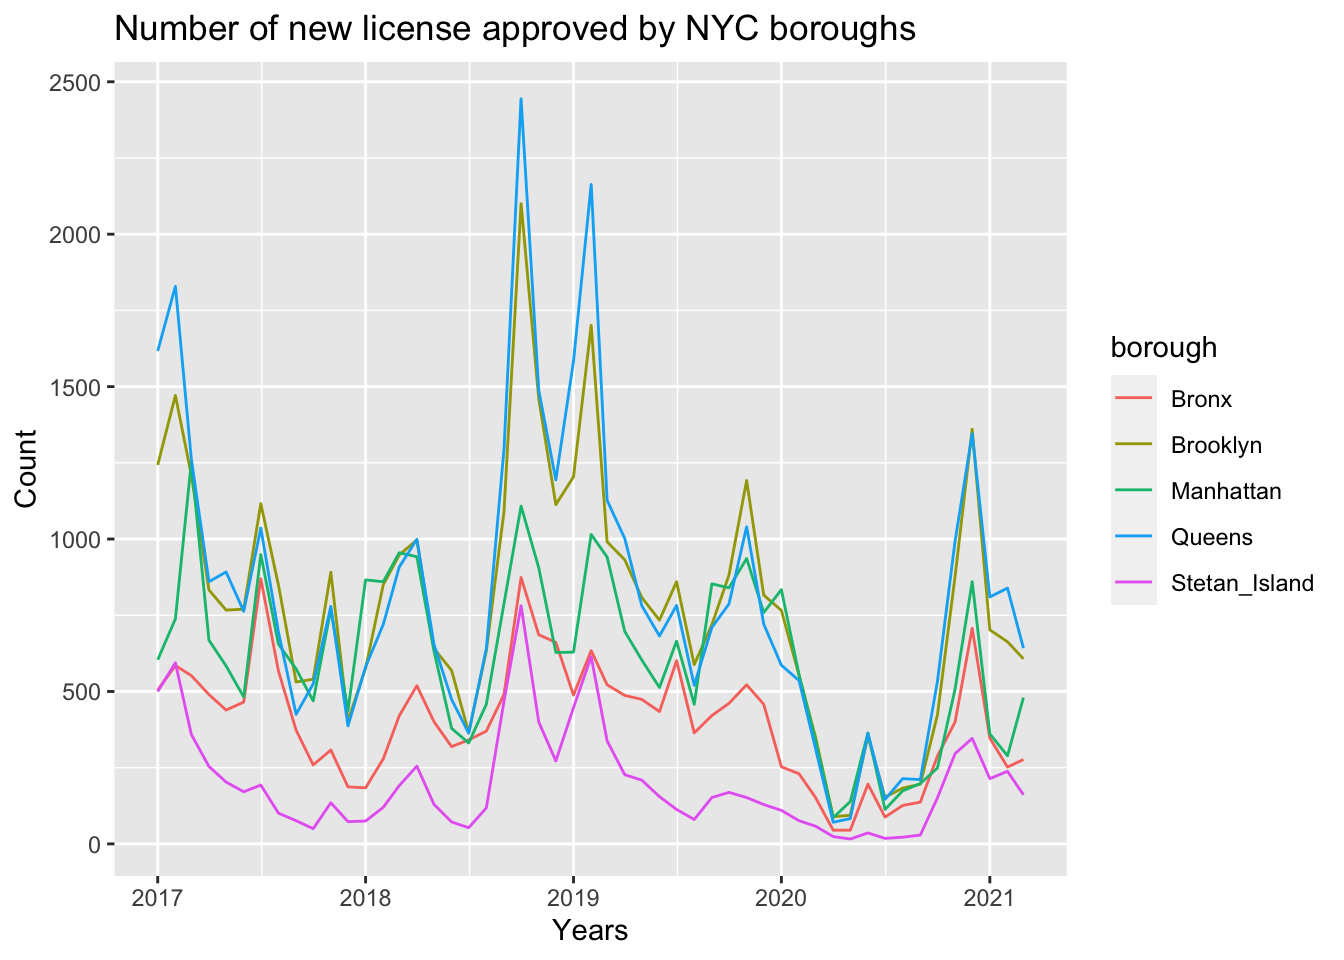
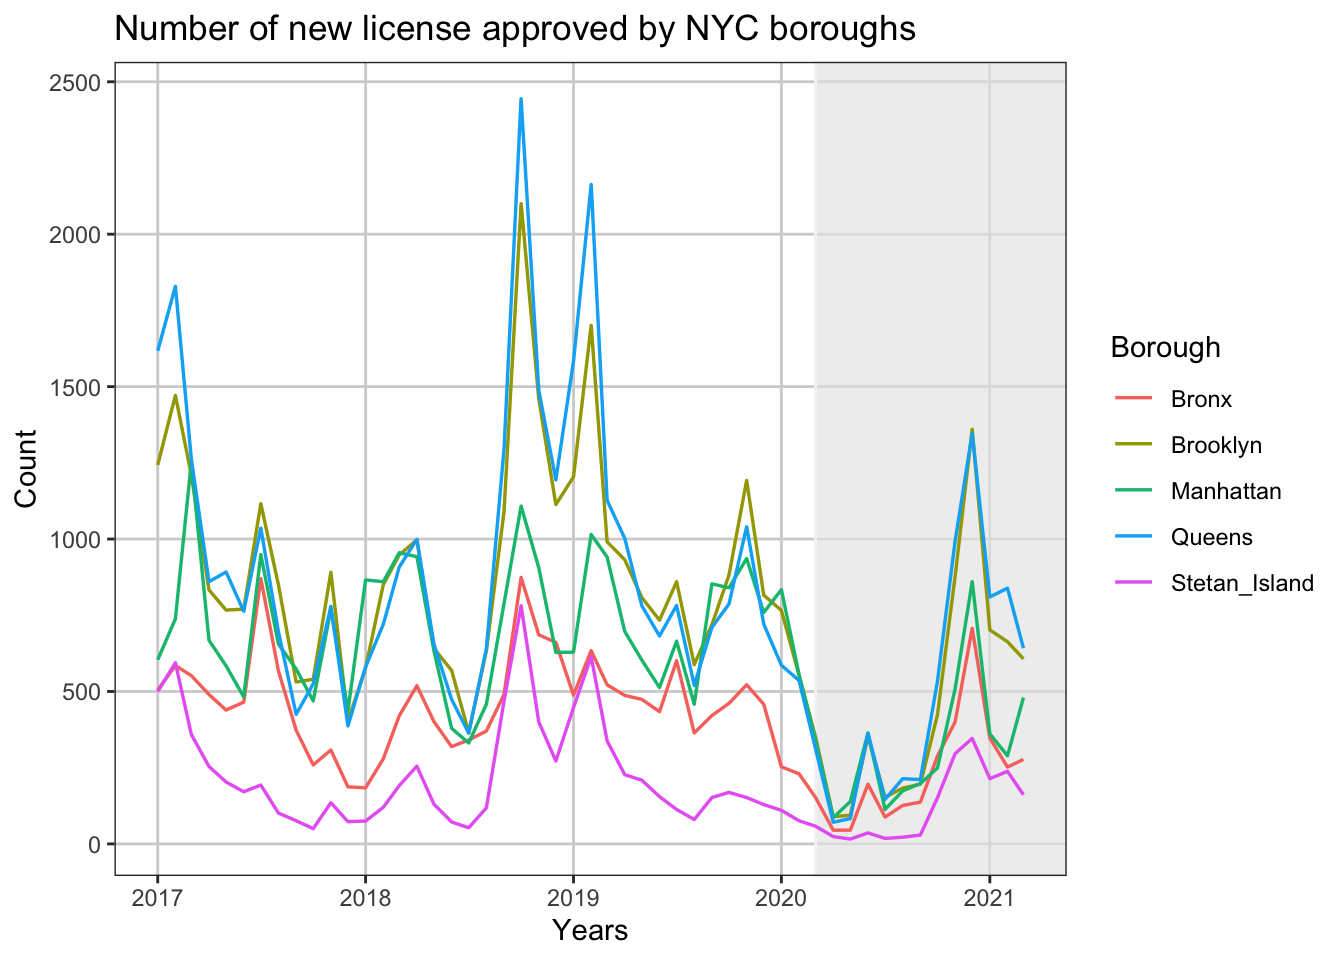
Line chart explanation cleanup

diff --git a/docs/results.html b/docs/results.html
@@ -24,7 +24,7 @@
 <meta name="author" content="Kenny Lee, Xinzhe Qi" />
 
 
-<meta name="date" content="2021-04-07" />
+<meta name="date" content="2021-04-08" />
 
   <meta name="viewport" content="width=device-width, initial-scale=1" />
   <meta name="apple-mobile-web-app-capable" content="yes" />
@@ -147,7 +147,7 @@ code span.wa { color: #60a0b0; font-weight: bold; font-style: italic; } /* Warni
 </ul></li>
 <li class="chapter" data-level="4" data-path="missing-values.html"><a href="missing-values.html"><i class="fa fa-check"></i><b>4</b> Missing values</a></li>
 <li class="chapter" data-level="5" data-path="results.html"><a href="results.html"><i class="fa fa-check"></i><b>5</b> Results</a><ul>
-<li class="chapter" data-level="5.1" data-path="results.html"><a href="results.html#histoircal-trends-over-past-years"><i class="fa fa-check"></i><b>5.1</b> Histoircal trends over past years</a></li>
+<li class="chapter" data-level="5.1" data-path="results.html"><a href="results.html#historical-trends-over-past-years"><i class="fa fa-check"></i><b>5.1</b> Historical trends over past years</a></li>
 <li class="chapter" data-level="5.2" data-path="results.html"><a href="results.html#identifying-seasonality-in-data"><i class="fa fa-check"></i><b>5.2</b> Identifying seasonality in data</a></li>
 </ul></li>
 <li class="chapter" data-level="6" data-path="interactive-component.html"><a href="interactive-component.html"><i class="fa fa-check"></i><b>6</b> Interactive component</a></li>
@@ -173,8 +173,9 @@ code span.wa { color: #60a0b0; font-weight: bold; font-style: italic; } /* Warni
             <section class="normal" id="section-">
 <div id="results" class="section level1">
 <h1><span class="header-section-number">Chapter 5</span> Results</h1>
-<div id="histoircal-trends-over-past-years" class="section level2">
-<h2><span class="header-section-number">5.1</span> Histoircal trends over past years</h2>
+<div id="historical-trends-over-past-years" class="section level2">
+<h2><span class="header-section-number">5.1</span> Historical trends over past years</h2>
+<p>The line chart over below shows historical changes in newly approved license application volumes from 2017 to March 2021, aggregated to monthly frequency and mapped to five boroughs by zip codes. The shading represents the period since the onset of the pandemic. Across the five boroughs, the impact of the pandemic is clearly visible, with new applications dropping sharply around end-March in 2020. The troughs of this sharp drop was in April 2020 during the first lockdowns in spring. Afterwards, the volume of new licenses have improved steadily in the Bronx, Brooklyn, Manhattan and Queens. The volume in Stetan Island, however, did not show much improvement. Over the winter, NYC including Stetan Island saw substantial increases in newly approved licenses.</p>
 <p><img src="finalproj_files/figure-html/unnamed-chunk-11-1.png" width="672" /></p>
 <p><img src="finalproj_files/figure-html/unnamed-chunk-12-1.png" width="672" /></p>
 </div>

diff --git a/docs/index.html b/docs/index.html
@@ -24,7 +24,7 @@
 <meta name="author" content="Kenny Lee, Xinzhe Qi" />
 
 
-<meta name="date" content="2021-04-07" />
+<meta name="date" content="2021-04-08" />
 
   <meta name="viewport" content="width=device-width, initial-scale=1" />
   <meta name="apple-mobile-web-app-capable" content="yes" />
@@ -147,7 +147,7 @@ code span.wa { color: #60a0b0; font-weight: bold; font-style: italic; } /* Warni
 </ul></li>
 <li class="chapter" data-level="4" data-path="missing-values.html"><a href="missing-values.html"><i class="fa fa-check"></i><b>4</b> Missing values</a></li>
 <li class="chapter" data-level="5" data-path="results.html"><a href="results.html"><i class="fa fa-check"></i><b>5</b> Results</a><ul>
-<li class="chapter" data-level="5.1" data-path="results.html"><a href="results.html#histoircal-trends-over-past-years"><i class="fa fa-check"></i><b>5.1</b> Histoircal trends over past years</a></li>
+<li class="chapter" data-level="5.1" data-path="results.html"><a href="results.html#historical-trends-over-past-years"><i class="fa fa-check"></i><b>5.1</b> Historical trends over past years</a></li>
 <li class="chapter" data-level="5.2" data-path="results.html"><a href="results.html#identifying-seasonality-in-data"><i class="fa fa-check"></i><b>5.2</b> Identifying seasonality in data</a></li>
 </ul></li>
 <li class="chapter" data-level="6" data-path="interactive-component.html"><a href="interactive-component.html"><i class="fa fa-check"></i><b>6</b> Interactive component</a></li>
@@ -174,7 +174,7 @@ code span.wa { color: #60a0b0; font-weight: bold; font-style: italic; } /* Warni
 <div id="header">
 <h1 class="title">NYC after COVID-19</h1>
 <p class="author"><em>Kenny Lee, Xinzhe Qi</em></p>
-<p class="date"><em>2021-04-07</em></p>
+<p class="date"><em>2021-04-08</em></p>
 </div>
 <div id="introduction" class="section level1">
 <h1><span class="header-section-number">Chapter 1</span> Introduction</h1>

diff --git a/docs/conclusion.html b/docs/conclusion.html
@@ -24,7 +24,7 @@
 <meta name="author" content="Kenny Lee, Xinzhe Qi" />
 
 
-<meta name="date" content="2021-04-07" />
+<meta name="date" content="2021-04-08" />
 
   <meta name="viewport" content="width=device-width, initial-scale=1" />
   <meta name="apple-mobile-web-app-capable" content="yes" />
@@ -147,7 +147,7 @@ code span.wa { color: #60a0b0; font-weight: bold; font-style: italic; } /* Warni
 </ul></li>
 <li class="chapter" data-level="4" data-path="missing-values.html"><a href="missing-values.html"><i class="fa fa-check"></i><b>4</b> Missing values</a></li>
 <li class="chapter" data-level="5" data-path="results.html"><a href="results.html"><i class="fa fa-check"></i><b>5</b> Results</a><ul>
-<li class="chapter" data-level="5.1" data-path="results.html"><a href="results.html#histoircal-trends-over-past-years"><i class="fa fa-check"></i><b>5.1</b> Histoircal trends over past years</a></li>
+<li class="chapter" data-level="5.1" data-path="results.html"><a href="results.html#historical-trends-over-past-years"><i class="fa fa-check"></i><b>5.1</b> Historical trends over past years</a></li>
 <li class="chapter" data-level="5.2" data-path="results.html"><a href="results.html#identifying-seasonality-in-data"><i class="fa fa-check"></i><b>5.2</b> Identifying seasonality in data</a></li>
 </ul></li>
 <li class="chapter" data-level="6" data-path="interactive-component.html"><a href="interactive-component.html"><i class="fa fa-check"></i><b>6</b> Interactive component</a></li>

diff --git a/docs/data-sources.html b/docs/data-sources.html
@@ -24,7 +24,7 @@
 <meta name="author" content="Kenny Lee, Xinzhe Qi" />
 
 
-<meta name="date" content="2021-04-07" />
+<meta name="date" content="2021-04-08" />
 
   <meta name="viewport" content="width=device-width, initial-scale=1" />
   <meta name="apple-mobile-web-app-capable" content="yes" />
@@ -147,7 +147,7 @@ code span.wa { color: #60a0b0; font-weight: bold; font-style: italic; } /* Warni
 </ul></li>
 <li class="chapter" data-level="4" data-path="missing-values.html"><a href="missing-values.html"><i class="fa fa-check"></i><b>4</b> Missing values</a></li>
 <li class="chapter" data-level="5" data-path="results.html"><a href="results.html"><i class="fa fa-check"></i><b>5</b> Results</a><ul>
-<li class="chapter" data-level="5.1" data-path="results.html"><a href="results.html#histoircal-trends-over-past-years"><i class="fa fa-check"></i><b>5.1</b> Histoircal trends over past years</a></li>
+<li class="chapter" data-level="5.1" data-path="results.html"><a href="results.html#historical-trends-over-past-years"><i class="fa fa-check"></i><b>5.1</b> Historical trends over past years</a></li>
 <li class="chapter" data-level="5.2" data-path="results.html"><a href="results.html#identifying-seasonality-in-data"><i class="fa fa-check"></i><b>5.2</b> Identifying seasonality in data</a></li>
 </ul></li>
 <li class="chapter" data-level="6" data-path="interactive-component.html"><a href="interactive-component.html"><i class="fa fa-check"></i><b>6</b> Interactive component</a></li>

diff --git a/docs/data-transformation.html b/docs/data-transformation.html
@@ -24,7 +24,7 @@
 <meta name="author" content="Kenny Lee, Xinzhe Qi" />
 
 
-<meta name="date" content="2021-04-07" />
+<meta name="date" content="2021-04-08" />
 
   <meta name="viewport" content="width=device-width, initial-scale=1" />
   <meta name="apple-mobile-web-app-capable" content="yes" />
@@ -147,7 +147,7 @@ code span.wa { color: #60a0b0; font-weight: bold; font-style: italic; } /* Warni
 </ul></li>
 <li class="chapter" data-level="4" data-path="missing-values.html"><a href="missing-values.html"><i class="fa fa-check"></i><b>4</b> Missing values</a></li>
 <li class="chapter" data-level="5" data-path="results.html"><a href="results.html"><i class="fa fa-check"></i><b>5</b> Results</a><ul>
-<li class="chapter" data-level="5.1" data-path="results.html"><a href="results.html#histoircal-trends-over-past-years"><i class="fa fa-check"></i><b>5.1</b> Histoircal trends over past years</a></li>
+<li class="chapter" data-level="5.1" data-path="results.html"><a href="results.html#historical-trends-over-past-years"><i class="fa fa-check"></i><b>5.1</b> Historical trends over past years</a></li>
 <li class="chapter" data-level="5.2" data-path="results.html"><a href="results.html#identifying-seasonality-in-data"><i class="fa fa-check"></i><b>5.2</b> Identifying seasonality in data</a></li>
 </ul></li>
 <li class="chapter" data-level="6" data-path="interactive-component.html"><a href="interactive-component.html"><i class="fa fa-check"></i><b>6</b> Interactive component</a></li>

diff --git a/docs/interactive-component.html b/docs/interactive-component.html
@@ -24,7 +24,7 @@
 <meta name="author" content="Kenny Lee, Xinzhe Qi" />
 
 
-<meta name="date" content="2021-04-07" />
+<meta name="date" content="2021-04-08" />
 
   <meta name="viewport" content="width=device-width, initial-scale=1" />
   <meta name="apple-mobile-web-app-capable" content="yes" />
@@ -147,7 +147,7 @@ code span.wa { color: #60a0b0; font-weight: bold; font-style: italic; } /* Warni
 </ul></li>
 <li class="chapter" data-level="4" data-path="missing-values.html"><a href="missing-values.html"><i class="fa fa-check"></i><b>4</b> Missing values</a></li>
 <li class="chapter" data-level="5" data-path="results.html"><a href="results.html"><i class="fa fa-check"></i><b>5</b> Results</a><ul>
-<li class="chapter" data-level="5.1" data-path="results.html"><a href="results.html#histoircal-trends-over-past-years"><i class="fa fa-check"></i><b>5.1</b> Histoircal trends over past years</a></li>
+<li class="chapter" data-level="5.1" data-path="results.html"><a href="results.html#historical-trends-over-past-years"><i class="fa fa-check"></i><b>5.1</b> Historical trends over past years</a></li>
 <li class="chapter" data-level="5.2" data-path="results.html"><a href="results.html#identifying-seasonality-in-data"><i class="fa fa-check"></i><b>5.2</b> Identifying seasonality in data</a></li>
 </ul></li>
 <li class="chapter" data-level="6" data-path="interactive-component.html"><a href="interactive-component.html"><i class="fa fa-check"></i><b>6</b> Interactive component</a></li>

diff --git a/docs/missing-values.html b/docs/missing-values.html
@@ -24,7 +24,7 @@
 <meta name="author" content="Kenny Lee, Xinzhe Qi" />
 
 
-<meta name="date" content="2021-04-07" />
+<meta name="date" content="2021-04-08" />
 
   <meta name="viewport" content="width=device-width, initial-scale=1" />
   <meta name="apple-mobile-web-app-capable" content="yes" />
@@ -147,7 +147,7 @@ code span.wa { color: #60a0b0; font-weight: bold; font-style: italic; } /* Warni
 </ul></li>
 <li class="chapter" data-level="4" data-path="missing-values.html"><a href="missing-values.html"><i class="fa fa-check"></i><b>4</b> Missing values</a></li>
 <li class="chapter" data-level="5" data-path="results.html"><a href="results.html"><i class="fa fa-check"></i><b>5</b> Results</a><ul>
-<li class="chapter" data-level="5.1" data-path="results.html"><a href="results.html#histoircal-trends-over-past-years"><i class="fa fa-check"></i><b>5.1</b> Histoircal trends over past years</a></li>
+<li class="chapter" data-level="5.1" data-path="results.html"><a href="results.html#historical-trends-over-past-years"><i class="fa fa-check"></i><b>5.1</b> Historical trends over past years</a></li>
 <li class="chapter" data-level="5.2" data-path="results.html"><a href="results.html#identifying-seasonality-in-data"><i class="fa fa-check"></i><b>5.2</b> Identifying seasonality in data</a></li>
 </ul></li>
 <li class="chapter" data-level="6" data-path="interactive-component.html"><a href="interactive-component.html"><i class="fa fa-check"></i><b>6</b> Interactive component</a></li>
